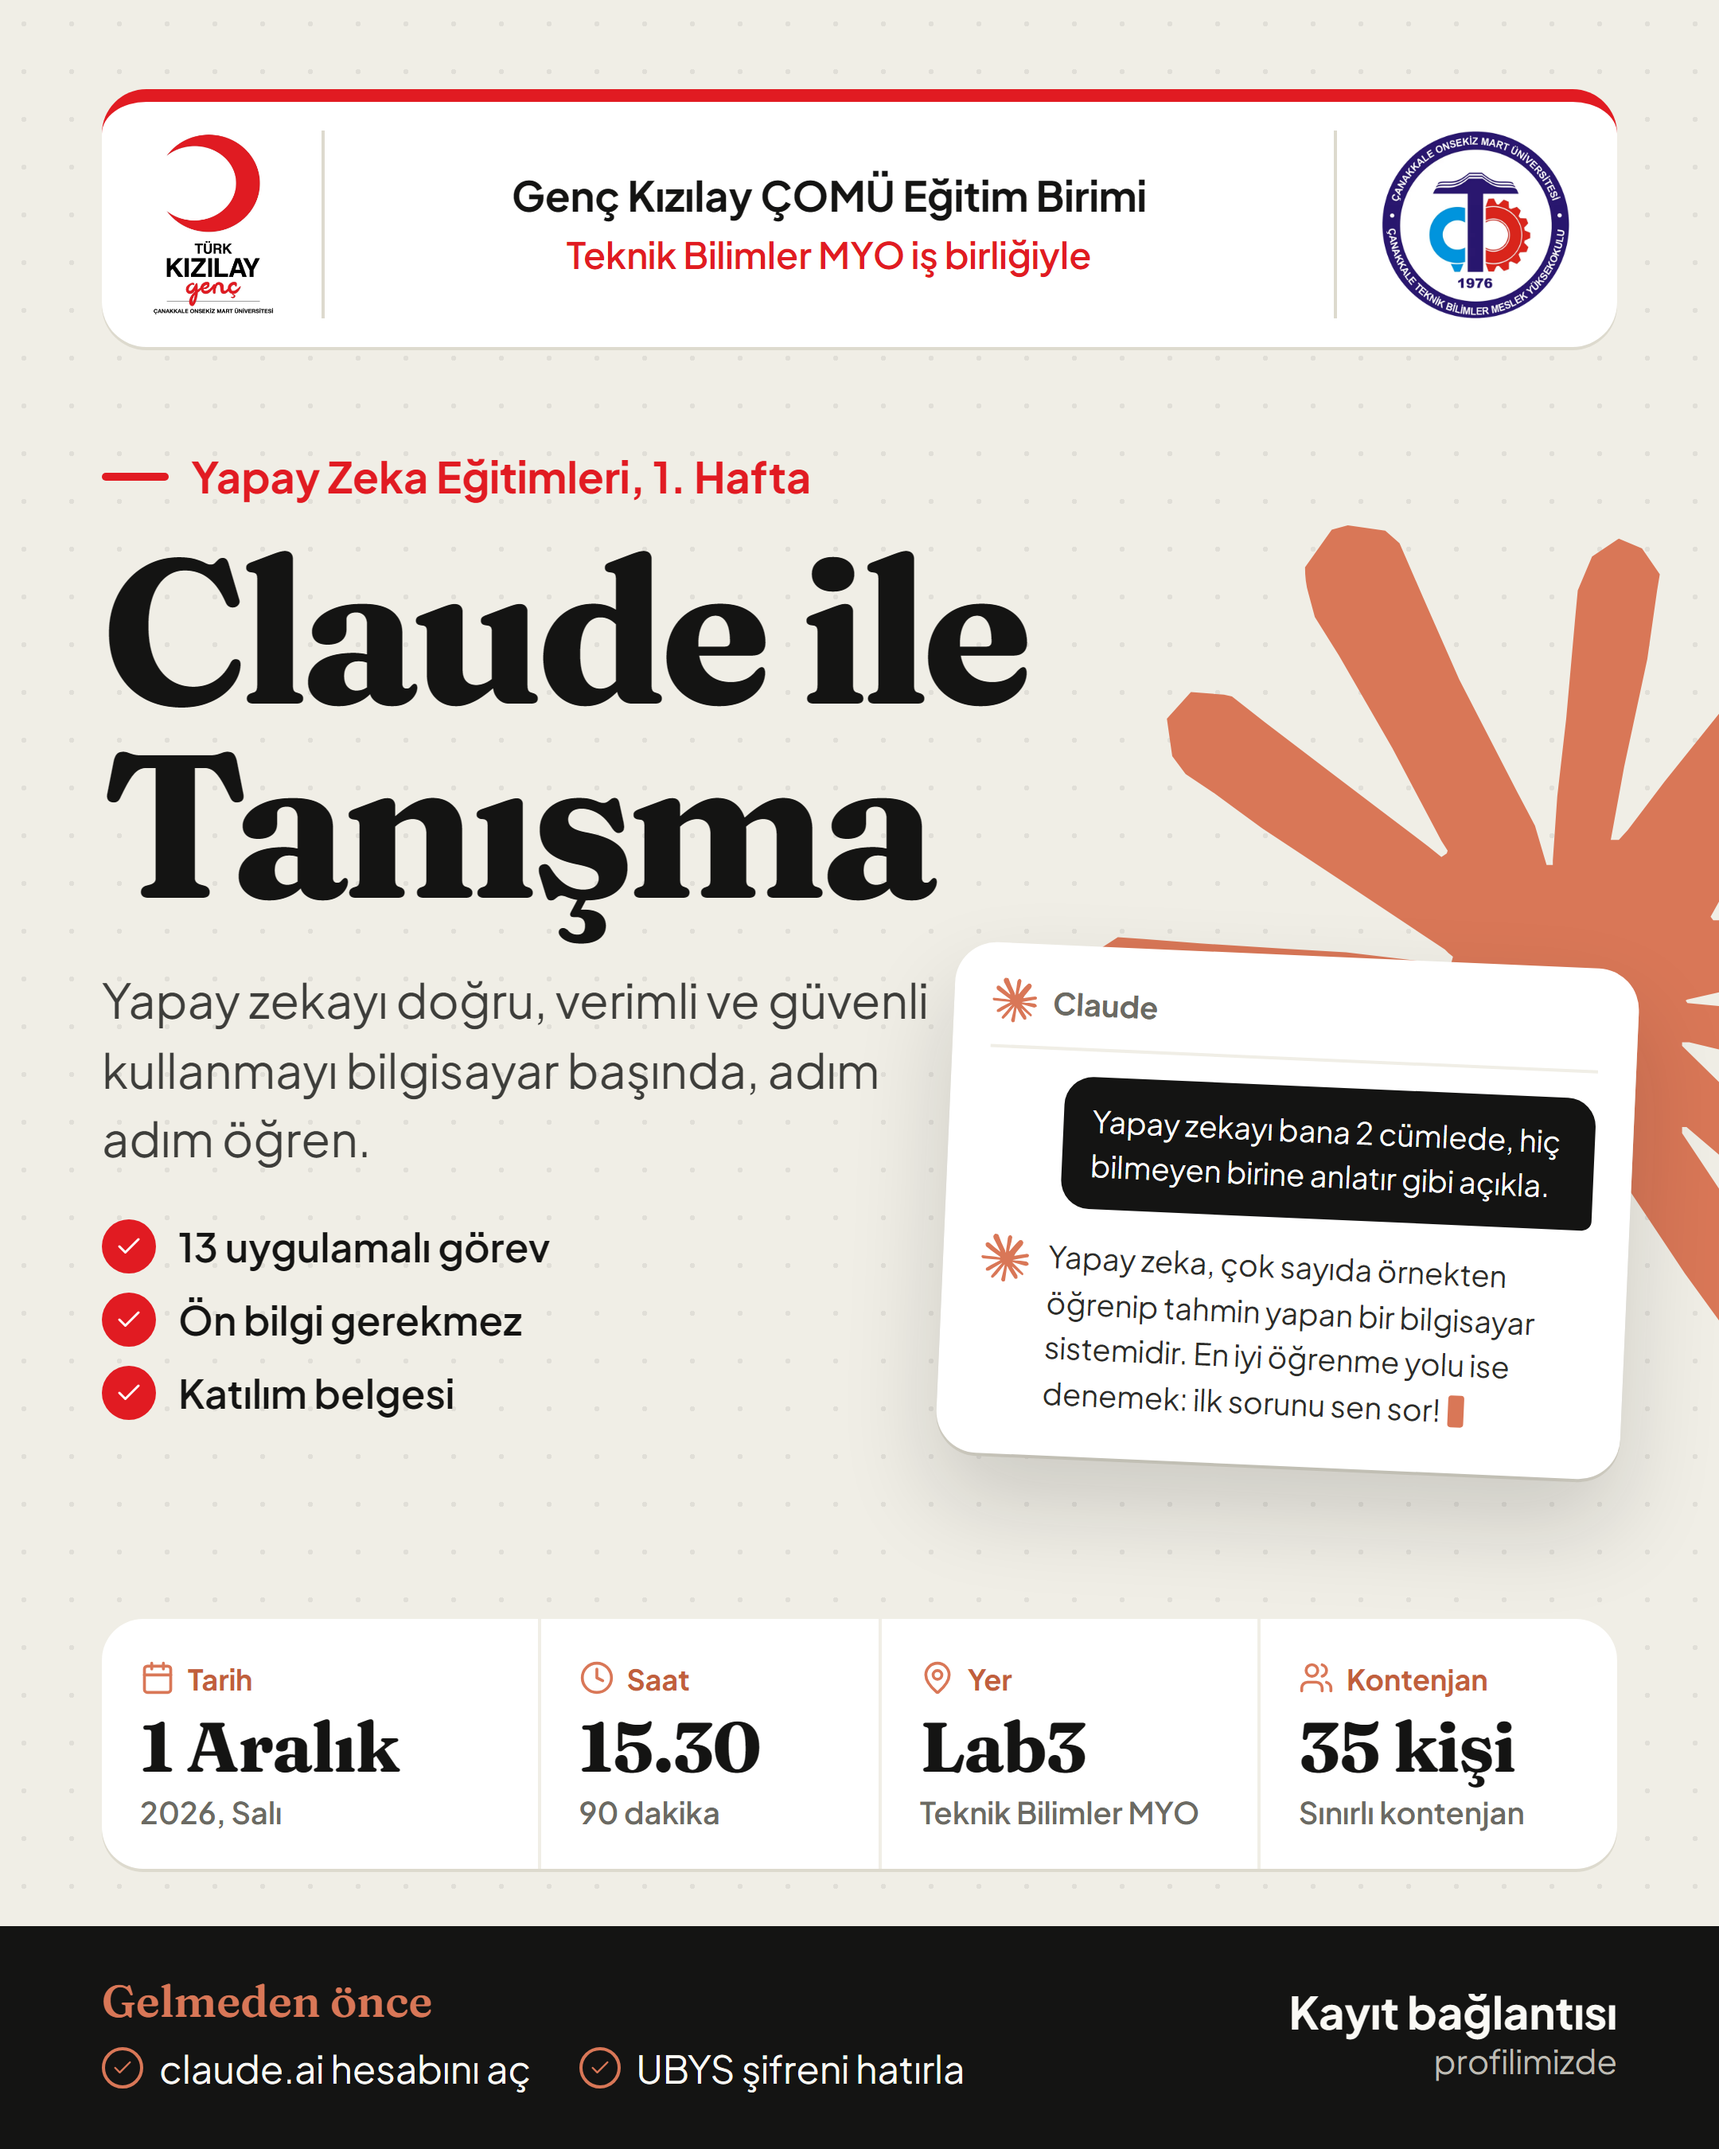
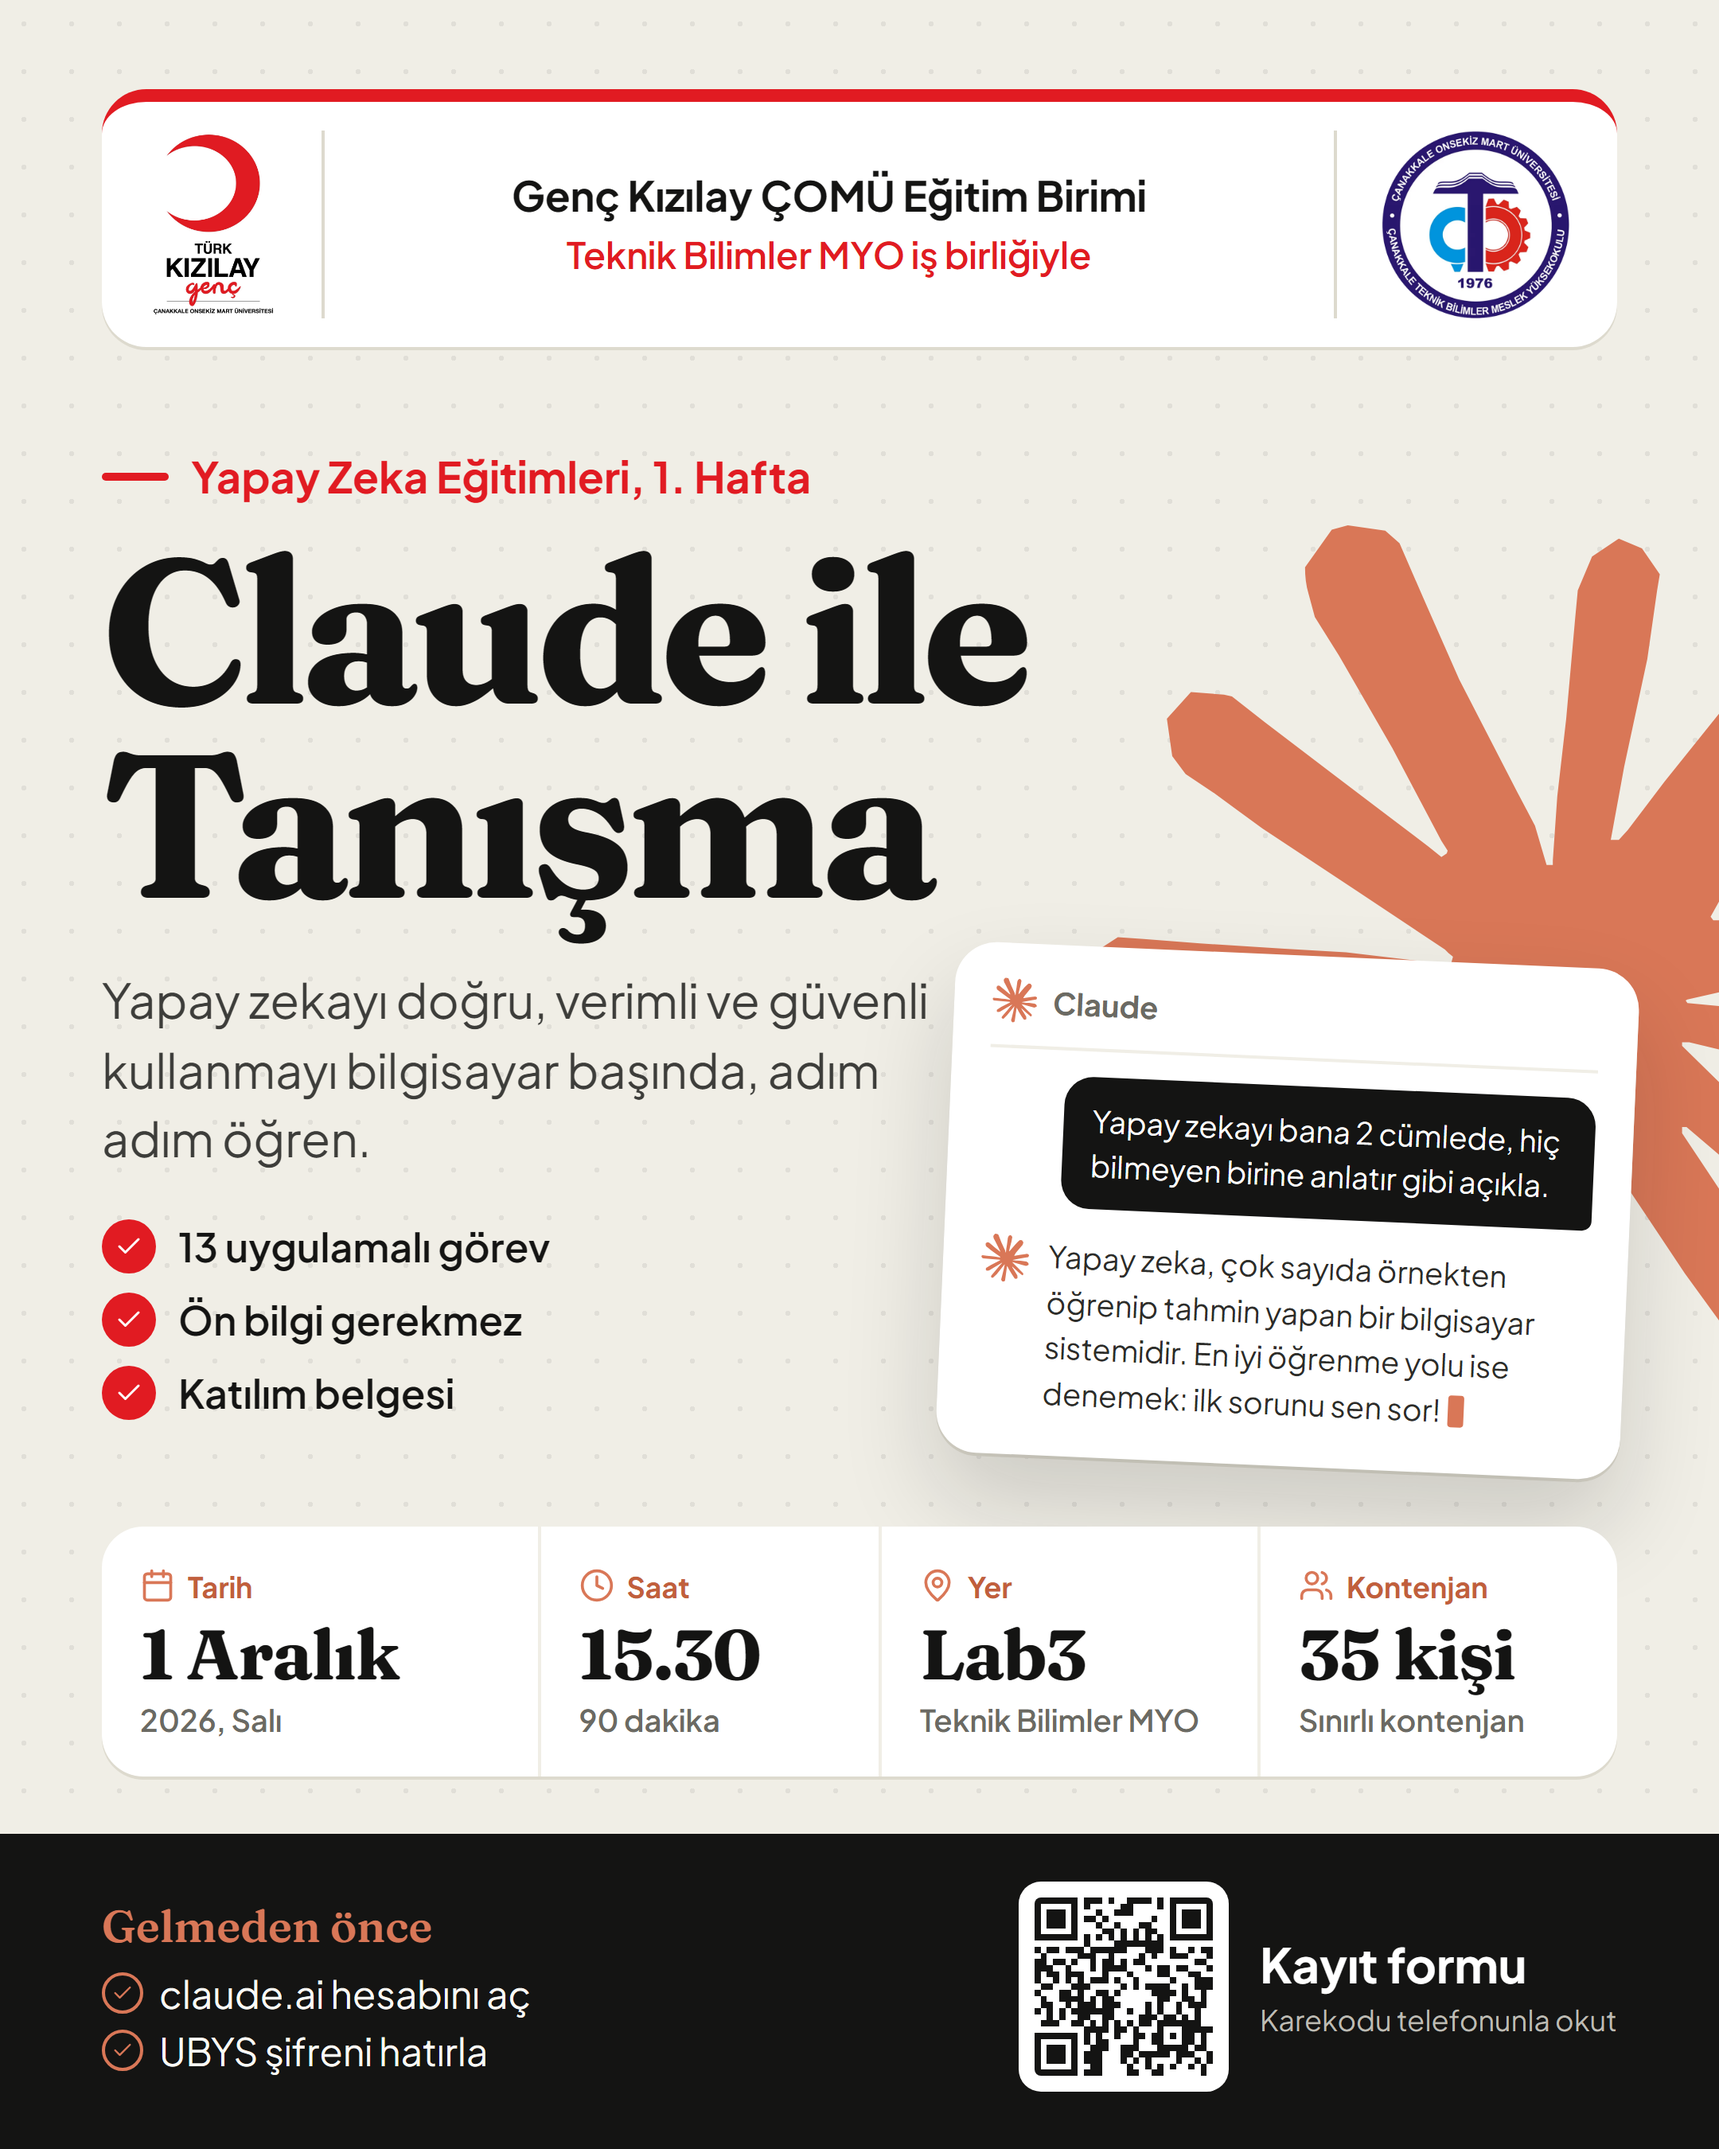
Kayıt formu bağlantısı: afişe karekod, duyuru metinlerine saat ve form linki

Changed region(s): [[0.0, 0.6844, 1.0, 0.9956], [0.3722, 0.9333, 0.4032, 0.9644]]

diff --git a/duyuru/afis/afis.html b/duyuru/afis/afis.html
@@ -76,13 +76,14 @@
     /* ---------- Alt bant ---------- */
     .bant { position: relative; z-index: 2; margin: 0 -64px; background: var(--koyu); color: var(--krem-acik); padding: 30px 64px 36px; display: flex; align-items: center; justify-content: space-between; gap: 30px; }
     .bant h2 { font-family: var(--baslik); font-weight: 600; font-size: 28px; color: var(--turuncu); margin-bottom: 10px; }
-    .bant ul { list-style: none; display: flex; gap: 30px; }
+    .bant ul { list-style: none; display: flex; flex-direction: column; gap: 6px; }
     .bant li { display: flex; align-items: center; gap: 10px; font-size: 24px; }
     .bant li i { width: 26px; height: 26px; border-radius: 50%; border: 2px solid var(--turuncu); position: relative; flex: none; }
     .bant li i::after { content: ""; position: absolute; inset: 4px; background: var(--turuncu); -webkit-mask: url(../../ortak/ikonlar/check.svg) center / contain no-repeat; mask: url(../../ortak/ikonlar/check.svg) center / contain no-repeat; }
-    .kayit { flex: none; text-align: right; }
-    .kayit b { display: block; font-size: 28px; font-weight: 700; }
-    .kayit span { font-size: 21px; color: #BDBBB3; }
+    .kayit { flex: none; display: flex; align-items: center; gap: 20px; }
+    .kayit .karekod { width: 132px; height: 132px; background: #fff; padding: 10px; border-radius: 14px; flex: none; }
+    .kayit b { display: block; font-size: 30px; font-weight: 700; color: #fff; }
+    .kayit span { display: block; font-size: 18px; color: #BDBBB3; max-width: 230px; line-height: 1.35; margin-top: 4px; }
 
     /* ---------- Hikâye (9:16) ---------- */
     body.hikaye .kahraman { margin-top: 56px; }
@@ -100,8 +101,10 @@
     body.hikaye .pano b { font-size: 48px; }
     body.hikaye .pano div { padding: 22px 26px 20px; }
     body.hikaye .pano span { font-size: 22px; }
-    body.hikaye .bant { padding: 44px 64px 60px; flex-direction: column; align-items: flex-start; }
-    body.hikaye .kayit { text-align: left; }
+    body.hikaye .bant { padding: 40px 64px 52px; }
+    body.hikaye .bant ul { flex-direction: column; gap: 6px; }
+    body.hikaye .kayit .karekod { width: 170px; height: 170px; }
+    body.hikaye .kayit span { max-width: 220px; font-size: 19px; }
   </style>
 </head>
 <body>
@@ -149,7 +152,10 @@
           <li><i></i>UBYS şifreni hatırla</li>
         </ul>
       </div>
-      <div class="kayit"><b>Kayıt bağlantısı</b><span>profilimizde</span></div>
+      <div class="kayit">
+        <img class="karekod" src="kayit-karekod.svg" alt="Kayıt formu karekodu">
+        <div><b>Kayıt formu</b><span>Karekodu telefonunla okut</span></div>
+      </div>
     </footer>
   </div>
   <script>if (location.hash === '#hikaye') document.body.classList.add('hikaye');</script>

diff --git a/duyuru/hafta-1-duyuru.md b/duyuru/hafta-1-duyuru.md
@@ -14,14 +14,14 @@
 Yapay zekayı merak ediyor ama nereden başlayacağını bilmiyor musun?
 Gel, bilgisayarın başında birlikte öğrenelim.
 
-📅 **1 Aralık Salı** · 🕐 **[saat]**
+📅 **1 Aralık Salı** · 🕐 **15.30**
 📍 **Teknik Bilimler MYO · Lab3**
 👥 **35 kişilik kontenjan** · 🎓 **Katılım belgesi verilecek**
 
 ✅ Önceden **claude.ai** hesabını aç
 ✅ Lab bilgisayarına girişte istenen **UBYS şifreni** bil
 
-Kayıt: **[kayıt formu bağlantısı / karekod]**
+Kayıt: **https://forms.gle/gW2JJUYM1pT81xBE6**
 
 ---
 
@@ -40,7 +40,7 @@ Bu eğitimde dinlemekten çok **yapacağız**. Herkesin önünde bir bilgisayar 
 
 Daha önce hiç yapay zeka kullanmadıysan ya da bilgisayarla aran pek iyi değilse **tam sana göre**. Adım adım ilerleyeceğiz.
 
-📅 1 Aralık Salı · 🕐 [saat]
+📅 1 Aralık Salı · 🕐 15.30
 📍 Teknik Bilimler MYO, Lab3
 👥 Kontenjan 35 kişi
 🎓 Katılım belgesi verilecek
@@ -49,7 +49,7 @@ Daha önce hiç yapay zeka kullanmadıysan ya da bilgisayarla aran pek iyi deği
 1⃣ **claude.ai hesabını aç.** Nasıl yapılacağı aşağıdaki rehberde.
 2⃣ Lab bilgisayarlarına **TC kimlik numaran ve UBYS şifrenle** giriş yapılıyor. Şifreni hatırlamıyorsan derse gelmeden UBYS'den sıfırla.
 
-📝 Kayıt: [kayıt formu bağlantısı]
+📝 Kayıt: https://forms.gle/gW2JJUYM1pT81xBE6
 
 ---
 
@@ -71,7 +71,7 @@ Daha önce hiç yapay zeka kullanmadıysan ya da bilgisayarla aran pek iyi deği
 
 👋 Merhaba! **Yarın** "Claude ile Tanışma" eğitimimiz var.
 
-📅 1 Aralık Salı · 🕐 [saat]
+📅 1 Aralık Salı · 🕐 15.30
 📍 Teknik Bilimler MYO, Lab3
 
 Gelmeden önce son kontrol:
